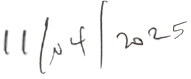
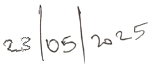
Add house number to file name

Changed region(s): [[0.0, 0.0, 0.5828, 0.9412], [0.5828, 0.2647, 0.9801, 0.7059]]

diff --git a/generateDocFiles.ts b/generateDocFiles.ts
@@ -11,9 +11,6 @@ export const generateDocFiles = async (
   renderImages: boolean,
   headerIndex: IheaderIndex, 
   data: string[][]) => {
-
-    console.log(renderImages)
-    console.log(imagePath)
   
   // Create the reports from data
   for(const [index, row] of data.entries() ) {
@@ -30,8 +27,6 @@ export const generateDocFiles = async (
 
     
     const templatePath: string = getTemplatePath(propertyType, renderImages)
-
-    console.log(templatePath)
 
     // Load the DOCX file
     const template = fs.readFileSync(templatePath)
@@ -91,12 +86,18 @@ export const generateDocFiles = async (
       },
       cmdDelimiter: ["{", "}"]
     })
+
+    const fileName= `${rowData.fullName} - ${rowData.houseNumber}.docx`
     
-    // Write file to output path 
-    fs.writeFileSync( path.join(outputPath, `${rowData.fullName}.docx`), buffer)
-
-    console.log(`${rowData.fullName} Report generated successfully.`)
-
+    if(fs.existsSync(path.join(outputPath, fileName))) {
+       // Write file to output path 
+      fs.writeFileSync( path.join(outputPath, fileName), buffer)
+      console.log(`${rowData.fullName} Report updated successfully.`)
+      
+    } else {
+      fs.writeFileSync( path.join(outputPath, fileName), buffer)
+      console.log(`${rowData.fullName} Report generated successfully.`)
+    }
 
   }
 }

diff --git a/index.ts b/index.ts
@@ -10,8 +10,8 @@ const rl = readline.createInterface({ input, output })
 // -------------------------------------------------------
 
 // Modify the following data
-const day = 11
-let month = "april"
+const day = 23
+let month = "may"
 const year = 2025
 const xlsFilename = "data.xlsx"
 const imagePath = {

diff --git a/README.md b/README.md
@@ -70,6 +70,7 @@ This tool was specifically built to automate the creation of real estate related
     ```
 
     * This executes the script, generating documents based on your template and data.
+    * Ensure you excel sheet have the following headers ("full name","property type","house number", "customer address", "serial no")
 
 ## How It Works
 
